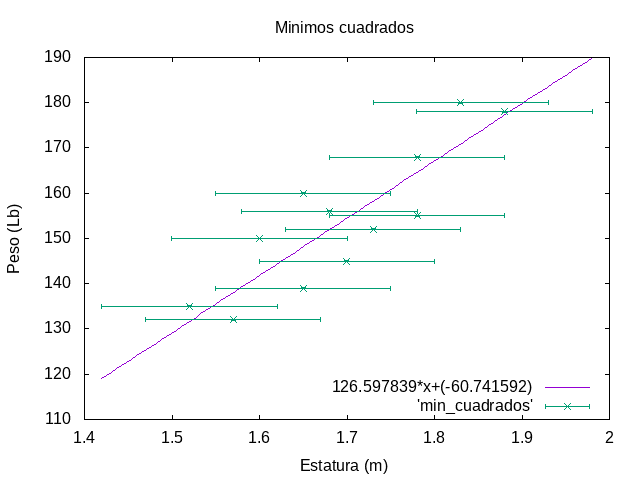
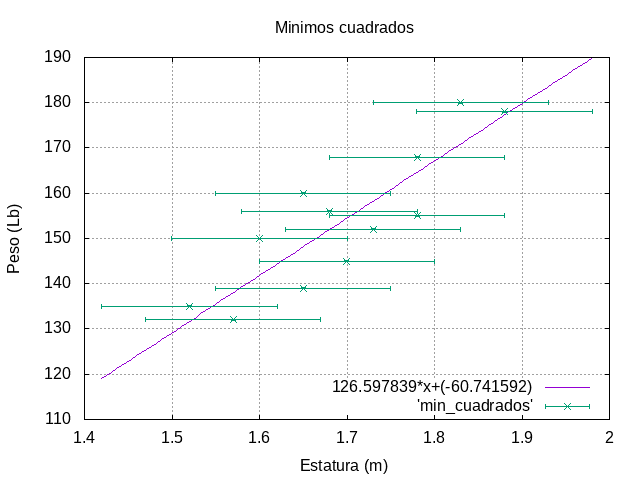
Finalizado

diff --git a/Segundo_parcial/Biseccion.c b/Segundo_parcial/Biseccion.c
@@ -1,6 +1,6 @@
 /*
-Autor: pmarze
 Compilador: 9.2.1
+Autor: pmarze
 Compilado: gcc Biseccion.c -o Biseccion
 Fecha: lun abr 20 22:29:32 CST 2020
 librerias: stdio, math.h
@@ -12,40 +12,71 @@ Salida: Gráfica de la ecuación
 
 #include <stdio.h>
 #include <math.h>
-#define EPS 0.000001	
+#include <stdio_ext.h>
+#define EPS 0.0000001	// Definimos EPS como la precisión deseada
 
-float a=0.5;
-float b=3.0;
-float fun(float);
-float biseccion(float,float);
+float a=-2.5;		// Límite inferior de nuestro rango a analizar
+float b=-1.0;		// Límite superior de nuestro rango a analizar
+double fun(double);	// Función que define el polinomio a analizar
+double biseccion(double,double,int,int);	// Función que realiza el método de bisección
+			//(límite inferior, Límite superior, Iteración actual, Máximo de Iteraciones)
+void gplot();		// Función para crear una gráfica en Gnuplot
 
 void main(){
-    printf("raiz del polinomio= %f \n", biseccion(a,b));
+    gplot();		// Se obtiene una gráfica de Gnuplot con el polinomio correspondiente
+    printf("raiz del polinomio= %lf \n", biseccion(a,b,0,100));	// Límites a y b, iteración inicial=0, iteración máxima=100
 }
 
+double fun(double x){			// Función para definir un polinomio cualquiera
+    double res; 	
+    res = pow(x,3)-2*pow(x,2)-3*x+10; 	// Polinomio x^3-2x^2-3x+10
+    return res;				// Regresa el valor del polinomio ya valuado
+}	
 
-float fun(float x){
-    float res;
-    res= 
-//    res = pow(x,3)-2*pow(x,2)-3*x+10;
-    return res;
-}
-
-float biseccion(float a, float b){
-    float p=(a+b)/2;
-    int n=0;
-    if (fabs(fun(p))-0<EPS || n<300){
-        printf("Raiz encontrada");
+double biseccion(double a, double b, int c, int d){	// Función para implementar el método de Bisección
+    double p=(a+b)/2;			// Se calcula el punto medio p del intervalo
+    int n=c;				// Valor actual de la iteración
+    if (n==d){				// Si la iteración actual es igual a la iteración que se definió como
+	    				// máxima, se muestra el valor actual de p, sea o no raíz del polinomio
+        printf("Máximo de iteraciones, no se obtuvo una respuesta con la precisión deseada,\n");
+        printf("el resultado presentado a continuación puede no ser raíz del polinomio.\n");
+        printf("\n");
         return p;
     }
-    else if (fun(a)*fun(p)>0){
-        printf("%f p por a\n",fun(p));
-        n++;
-        biseccion(p,b);
+    
+    if (fabs(fun(p))-0<EPS){		// Si al restar 0 del valor absoluto del polinomio valuado en p
+	    				// se obtiene que es menor que nuestra precisión, entonces este se 
+					// mostrará como cero que es justamente el resultado deseado
+        printf("Iteraciones realizadas= %d \n",n);	// Nos muestra cuantas iteraciones se necesitaron
+        return p;					// para encontrar el valor deseado.
     }
-    else{
-        printf("%f p por b\n",fun(p));
-        n++;
-        biseccion(a,p);
+					// En caso de que el valor no sea la raiz, tenemos dos posibles casos
+    else if (fun(a)*fun(p)>0){		// si el valor en el punto a * el valor en el punto medio es mayor a 0
+        n++;				// se debe valuar bisección en el intervalo [p,b], el número de iteracion crece 1
+        biseccion(p,b,n,d);
     }
+    else{				// Para cualquier otro caso el intervalo a analizar es [a,p]
+        n++;
+        biseccion(a,p,n,d);
+    }
+}
+
+void gplot(){
+    FILE *p = popen("gnuplot","w");	// popen() permite trabajar en gnuplot, w para modo write,
+    					// *p es nuestro puntero de archivo
+  					// El comando fprintf(p,"..."); permite escribir comandos en gnuplot
+    fprintf(p,"reset \n");		// Borramos cualquier configuración previa que pudiera tener gnuplot
+    fprintf(p,"set title 'Método de Bisección' \n");		// Se define el título del gráfico
+    fprintf(p,"set xlabel 'x' \n");	// Se define el título del eje x
+    fprintf(p,"set ylabel 'f(x)=x^3-2x^2-3x+10' \n");	// Se define el título del eje y
+    fprintf(p,"set yrange [-5:15] \n");		// Rango en x para la gráfica a generar
+    fprintf(p,"set xrange [-5:5] \n");		// Rango en y para la gráfica a generar
+    fprintf(p,"set grid\n");			// Cuadrícula para observar mejor los datos
+    fprintf(p,"set term png \n");		// Defnimos la terminal como png, para crear un gráfico de los datos
+    fprintf(p,"set key bottom right \n");	// Cambiamos la posición de key
+    fprintf(p,"set output 'biseccion.png' \n"); // La imagen obtenida se guarda con el nombre minimos.png
+    fprintf(p,"plot x**3-2*x**2-3*x+10 \n");	// Se plotea simultáneamente la línea que mejor
+						// se aproxima a nuestros puntos y también
+						// todos los puntos almacenados en min_cuadrados   
+    pclose(p);				// Se cierra gnuplot
 }

diff --git a/Segundo_parcial/Minimos_cuadrados.c b/Segundo_parcial/Minimos_cuadrados.c
@@ -28,6 +28,7 @@ float persona[12][2]={{70,155},{63,150},{72,180},{60,135},{66,156},{70,168},{74,
 float conv[3][2]={{39.3701,0.0254},{3.2808,0.3048},{1.0936,0.9144}};	// Se selecciona la coordenada correcta
 
 void metros();		// Función para convertir nuestros datos de pulgadas a metros
+void Gnplot();      	// Función para crear gráficos en gnuplot
 float m();		// Función m para calcular la pendiente
 float b1();		// Función b1 para calcular sumatoria de y_i/12
 float b2();		// Función b2 para calcular sumatoria de x_i/12
@@ -64,21 +65,8 @@ void main(){
 	printf("%.2f \n",mr*n+br);		// ingresada por el usuario
     }
     fclose(pf);				// Se cierra el archivo min_cuadrados
-    	
-    FILE *p = popen("gnuplot","w");	// popen() permite trabajar en gnuplot, w para modo write,
-    					// *p es nuestro puntero de archivo
-  					// El comando fprintf(p,"..."); permite escribir comandos en gnuplot
-    fprintf(p,"reset \n");		// Borramos cualquier configuración previa que pudiera tener gnuplot
-    fprintf(p,"set title 'Minimos cuadrados' \n");		// Se define el título del gráfico
-    fprintf(p,"set xlabel 'Estatura (m)' \n");	// Se define el título del eje x
-    fprintf(p,"set ylabel 'Peso (Lb)' \n");	// Se define el título del eje y
-    fprintf(p,"set term png \n");		// Defnimos la terminal como png, para crear un gráfico de los datos
-    fprintf(p,"set key bottom right \n");	// Cambiamos la posición de key
-    fprintf(p,"set output 'minimos.png' \n");   // Guardamos la imagen obtenida con el nombre minimos.png
-    fprintf(p,"plot %f*x+(%f), 'min_cuadrados' with xyerrorbars \n",mr,br);	// Se plotea simultáneamente la línea que mejor
-    								// se aproxima a nuestros puntos y también
-								// todos los puntos almacenados en min_cuadrados   
-    pclose(p);				// Se cierra gnuplot y deja nuestra gráfica en pantalla
+    Gnplot();				// Se genera una gráfica con Gnuplot	
+
     printf("\n");
     printf("Se ha generado una gráfica con los datos obtenidos \n");
     printf("La gráfica se encuentra en el archivo minimos.png \n");
@@ -116,4 +104,22 @@ void metros(float a[12][2],float b[3][2]){	// Función para convertir unidades a
         float z=a[i][0]*b[0][1];		// Si se desea convertir a otra unidad solo se debe cambiar
         a[i][0]=z;				// el valor de la coordenada ej: m->yd  entonces escribimos b[2][0]
     }
+}
+
+void Gnplot(){
+    FILE *p = popen("gnuplot","w");	// popen() permite trabajar en gnuplot, w para modo write,
+    					// *p es nuestro puntero de archivo
+  					// El comando fprintf(p,"..."); permite escribir comandos en gnuplot
+    fprintf(p,"reset \n");		// Borramos cualquier configuración previa que pudiera tener gnuplot
+    fprintf(p,"set grid\n");    // Cuadrícula de la gráfica
+    fprintf(p,"set title 'Minimos cuadrados' \n");		// Se define el título del gráfico
+    fprintf(p,"set xlabel 'Estatura (m)' \n");	// Se define el título del eje x
+    fprintf(p,"set ylabel 'Peso (Lb)' \n");	// Se define el título del eje y
+    fprintf(p,"set term png \n");		// Defnimos la terminal como png, para crear un gráfico de los datos
+    fprintf(p,"set key bottom right \n");	// Cambiamos la posición de key
+    fprintf(p,"set output 'minimos.png' \n");   // Guardamos la imagen obtenida con el nombre minimos.png
+    fprintf(p,"plot %f*x+(%f), 'min_cuadrados' with xyerrorbars \n",mr,br);	// Se plotea simultáneamente la línea que mejor
+    								// se aproxima a nuestros puntos y también
+								// todos los puntos almacenados en min_cuadrados   
+    pclose(p);				// Se cierra gnuplot
 }
